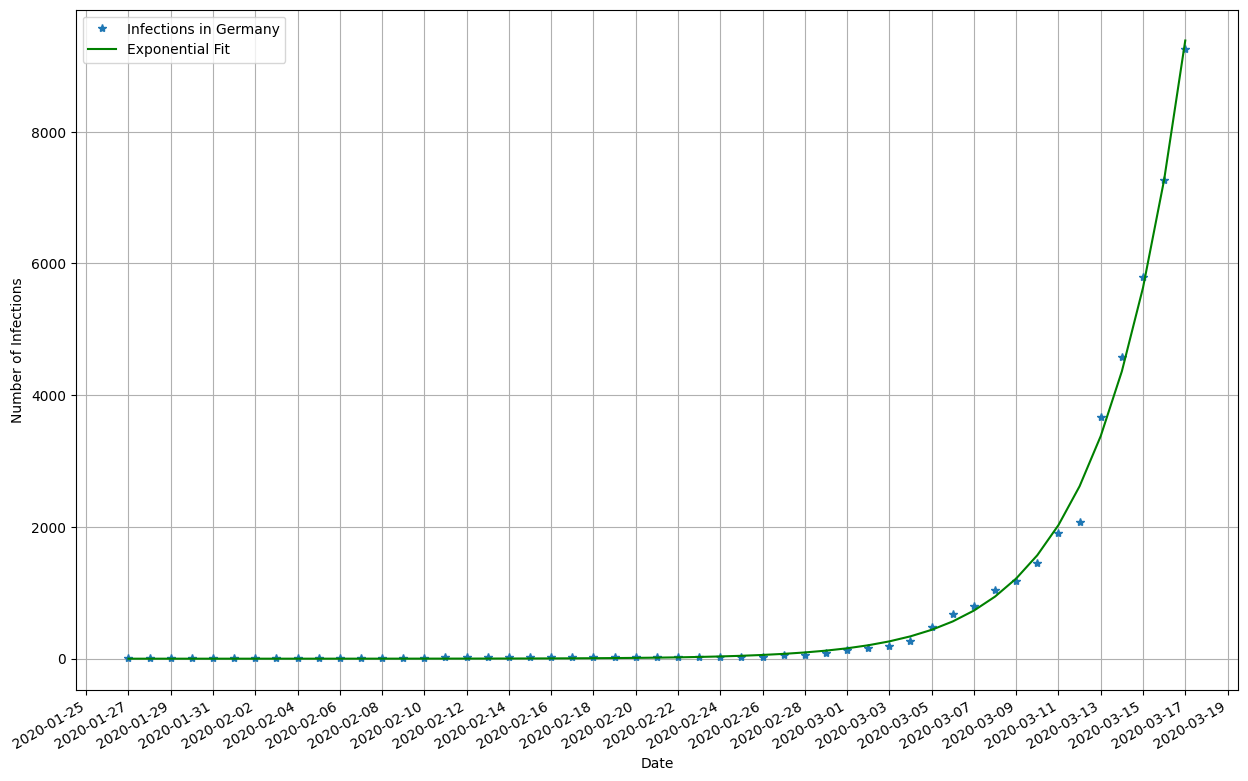
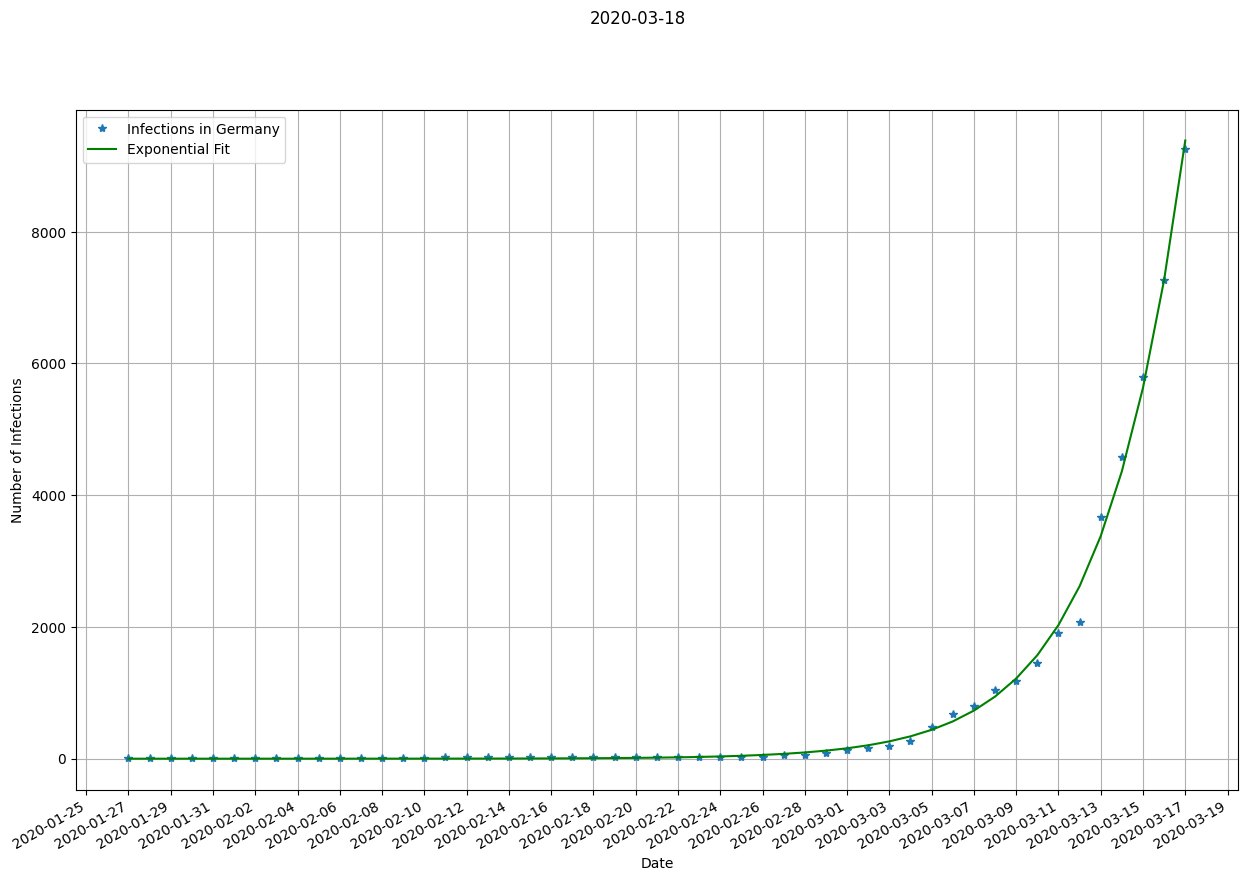
Auto Update

diff --git a/main.py b/main.py
@@ -7,16 +7,15 @@ import matplotlib.pyplot as plt
 import matplotlib.dates as mdates
 
 from datetime import date
-
+import time
 from scipy.optimize import curve_fit
-
-import subprocess
 from git import Repo
 
 CSV_FILENAME = "data/time_series_19-covid-Confirmed.csv"
 CSV_URL = 'https://raw.githubusercontent.com/CSSEGISandData/COVID-19/master/' \
           'csse_covid_19_data/csse_covid_19_time_series/time_series_19-covid-Confirmed.csv'
 COUNTRY = "Germany"
+UPDATE_EVERY_HOUR = 4
 
 
 def download_csv():
@@ -40,21 +39,17 @@ def main():
 
     # filter just one country
     df = df[df["Country/Region"] == COUNTRY]
-
-    # remove unecessary information
     df = df.drop(columns=["Unnamed: 0", "Country/Region", "Province/State", "Lat", "Long"])
+    df = df.iloc[0]  # convert to pd.Series
 
-    # convert to series
-    df = df.iloc[0]
-
-    # start with first infection
+    # start with first infections
     df = df[df.values != 0]
 
     # parse to datetime
     df.index = pd.to_datetime(df.index, format='%m/%d/%y')
 
+    # fit to exponential function
     time_in_days = np.arange(len(df.values))
-
     poptimal_exponential, pcovariance_exponential = curve_fit(exponential, time_in_days, df.values, p0=[0.3, 0.205, 0])
 
     # Plot current DATA
@@ -63,6 +58,7 @@ def main():
     ax.plot(df.index, exponential(time_in_days, *poptimal_exponential), 'g-', label="Exponential Fit")
     ax.set_xlabel("Date")
     ax.set_ylabel("Number of Infections")
+    fig.suptitle(date.today())
     ax.legend()
     ax.grid()
     ax.xaxis.set_major_locator(mdates.DayLocator(interval=2))
@@ -72,10 +68,7 @@ def main():
     # Compute prediction
     prediction_in_days = 10
     time_in_days = np.arange(start=len(df.values), stop=len(df.values)+prediction_in_days)
-
     prediction = exponential(time_in_days, *poptimal_exponential).astype(int)
-
-    # convert to series object
     df_prediction = pd.Series(prediction)
 
     # convert index to dates
@@ -114,7 +107,11 @@ def git_push():
     origin = repo.remote('origin')
     origin.push()
 
+
 if __name__ == '__main__':
 
-    main()
-    git_push()
+    while True:
+        os.remove(CSV_FILENAME)
+        main()
+        git_push()
+        time.sleep(UPDATE_EVERY_HOUR*60*60)
